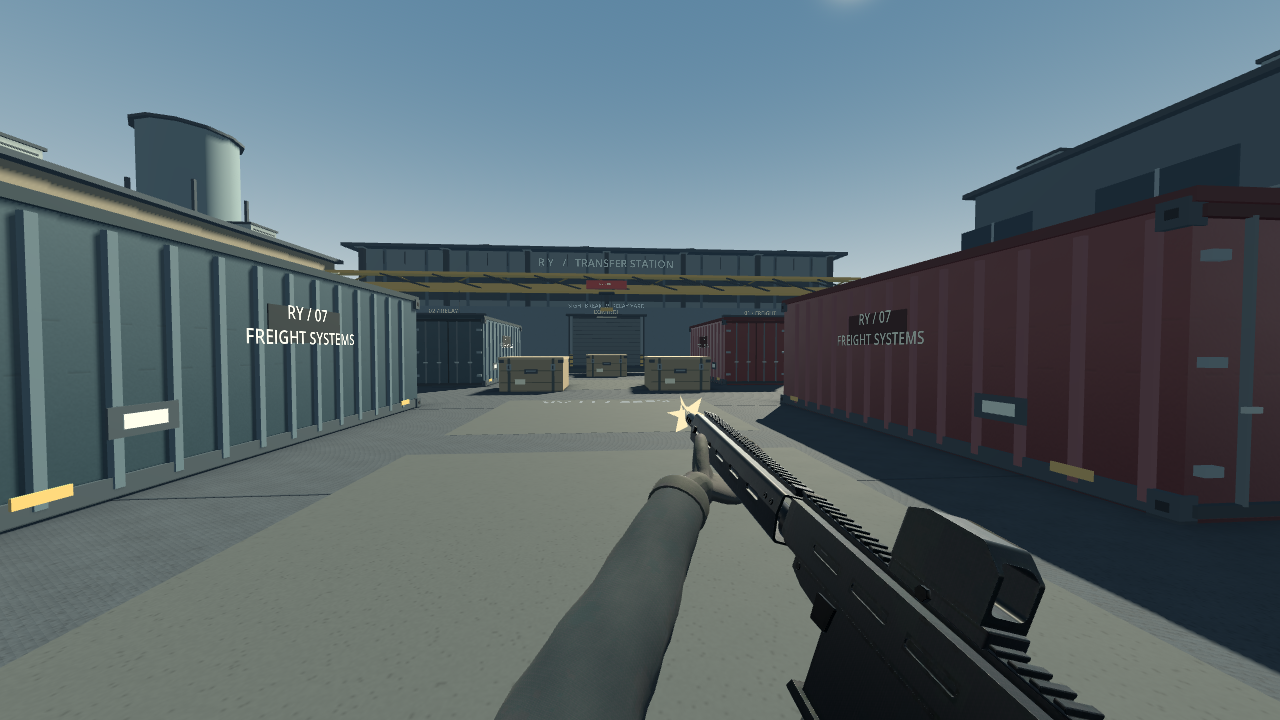
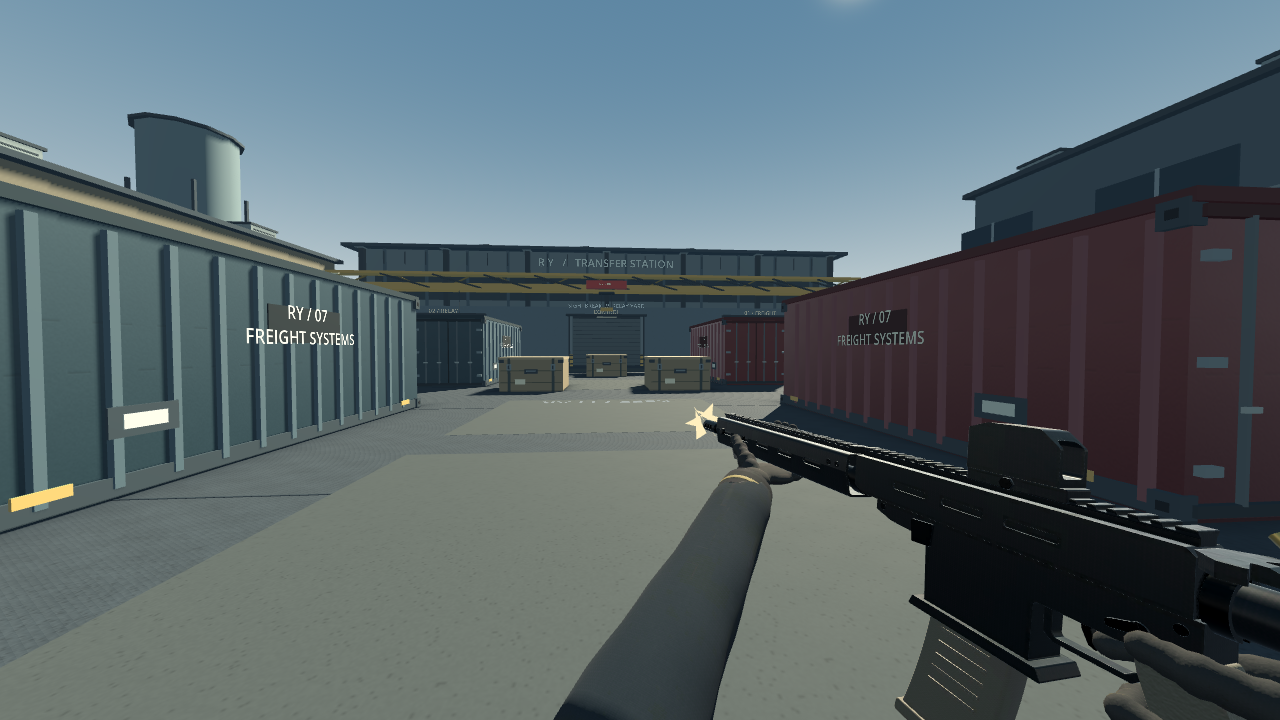
Record the hands v2 evidence, numbers and placement derivation
Refreshes the art docs for the rebuilt hands (9,684 triangles) and the
fitted viewmodel placement, and re-measures the viewmodel cost on
ecd290b: +48 ms per frame over the procedural rifle in the fixed software
rendering view (it was +32 to +40 ms), with 2 more draws and about 37k
more primitives. Those timings are relative cost on a CPU rasteriser, not
device evidence.

The art-v1 evidence now holds the final captures at 16:9, 20:9 and 4:3,
the hands renders from the second pass, the new benchmark log and the
validate.sh log for this head (1,958 native assertions, exit 0).

Claude-Session: https://claude.ai/code/session_01SpaewVrDfSTExz4E88EYmG

Changed region(s): [[0.375, 0.55, 1.0, 1.0]]

diff --git a/docs/art/PERFORMANCE_REPORT.md b/docs/art/PERFORMANCE_REPORT.md
@@ -6,23 +6,24 @@
 
 The test uses one fixed yard view at 1280×720 and alternates three variants over 3 rounds. Each round runs 8 warm-up frames and 40 measured frames, and the median frame time per round is recorded. Raw output is in `docs/reports/media/art-v1/logs/weapon_render_benchmark-<head>.log`.
 
-| Variant | Draw calls | Primitives | Median, `498311e` | Median, `b376e61` (final) |
-| --- | ---: | ---: | ---: | ---: |
-| No weapon | 23 | 37,452 | 120.8 ms | 118.4 ms |
-| Procedural rifle with box hands (0.4) | 28 | 40,476 | 128.3 ms | 129.4 ms |
-| Relay AR with baked hands | 30 | 76,326 | 160.0 ms | 169.5 ms |
+| Variant | Draw calls | Primitives | `498311e` | `b376e61` | `ecd290b` (hands v2) |
+| --- | ---: | ---: | ---: | ---: | ---: |
+| No weapon | 23 | 37,452 | 120.8 ms | 118.4 ms | 112.9 ms |
+| Procedural rifle with box hands (0.4) | 28 | 40,476 | 128.3 ms | 129.4 ms | 126.3 ms |
+| Relay AR with baked hands | 30 | 76,326 (77,698 at `ecd290b`) | 160.0 ms | 169.5 ms | 174.2 ms |
+
+Each cell is the median of 3 round medians. Round-to-round spread is a few milliseconds, and the "no weapon" row also moves between runs, so compare within a column.
 
 What this shows:
-- The authored viewmodel adds **2 draw calls** and about **36k primitives** compared with the procedural one. That matches the budgets: 30.3k triangles for the rifle and 8.3k for the hands.
-- On llvmpipe it costs **+32 ms** per frame over the procedural rifle at `498311e`, and **+40 ms** at the final head.
-  - The final head's default finish also samples the baked albedo, which is probably most of that difference on a CPU rasteriser.
-  - Round-to-round spread is several milliseconds.
+- The authored viewmodel adds **2 draw calls** and about **37k primitives** compared with the procedural one. That matches the budgets: 30.3k triangles for the rifle and 9.7k for the hands, which grew with the second hands pass.
+- On llvmpipe it costs **+32 ms** per frame over the procedural rifle at `498311e`, **+40 ms** at `b376e61` and **+48 ms** at `ecd290b`.
+  - The default finish then sampled the baked albedo, and the hands grew by about 1.4k triangles.
   - The view is simple, so the viewmodel's share is large.
 - **Texture memory:** six 1024² maps, VRAM compressed with mipmaps, take 5.59 MB in S3TC/BPTC and the same in ETC2. This is measured from the imported `.ctex` files.
 
 ## Risk and mitigation
 
-Thirty-nine thousand first-person triangles is within what current mid-range mobile GPUs draw comfortably, but that is **an expectation, not a measurement**. Until a device run exists:
+About forty thousand first-person triangles is within what current mid-range mobile GPUs draw comfortably, but that is **an expectation, not a measurement**. Until a device run exists:
 
 1. On the LOW tier, render the viewmodel from a reduced LOD. The importer already generates LODs, and `lod_bias` or an explicit decimated export can select one. Measure LOW and STANDARD separately.
 2. Keep viewmodel shadow casting off (already the case).
@@ -31,4 +32,4 @@ Thirty-nine thousand first-person triangles is within what current mid-range mob
 
 ## Regression status (art branch head)
 
-`scripts/validate.sh` passes on `b376e61`, with 1,958 native assertions. That includes `weapon_art_test.gd` (43), the bot match and two ENet clients. The log is in `docs/reports/media/art-v1/logs/validate-art-head.log`. No gameplay value, hit volume, network protocol or economy behaviour is changed by this slice.
+`scripts/validate.sh` passes on `ecd290b`, with 1,958 native assertions. That includes `weapon_art_test.gd` (43), the bot match and two ENet clients. The log is in `docs/reports/media/art-v1/logs/validate-art-head.log`. No gameplay value, hit volume, network protocol or economy behaviour is changed by this slice.

diff --git a/docs/reports/media/art-v1/README.md b/docs/reports/media/art-v1/README.md
@@ -5,10 +5,11 @@ Every image is a real render. The in-engine captures are Godot 4.7.2 on Xvfb wit
 | Folder | Contents |
 | --- | --- |
 | `captures/before-procedural/` | The 0.4 procedural rifle and box hands, the same seven fixtures |
-| `captures/after-authored/` | The Relay AR and baked hands at the final head (`b376e61`): backlit yard ready, firing, reload; sunlit yard; transfer-hall shade; sunlit with the Crimson Archive skin; inspection studio with the skin |
-| `reviewed-v4/` | The three authored frames as the visual reviewer saw them, before the follow-up fixes: casing origin, default baked finish, inspection centring (`docs/art/VISUAL_QA.md`) |
+| `captures/after-authored/` | The Relay AR and baked hands at the hands v2 head (`ecd290b`): backlit yard ready, firing, reload; sunlit yard; transfer-hall shade; sunlit with the Crimson Archive skin; inspection studio with the skin |
+| `captures/aspect-ratios/` | The ready frames at 20:9 (1600×720) and 4:3 (1024×768) |
+| `reviewed-v4/` | The three authored frames as the first visual reviewer saw them, before the follow-up fixes: casing origin, default baked finish, inspection centring, and the rebuilt hands and placement (`docs/art/VISUAL_QA.md`) |
 | `compare/` | Half-scale before/after sheets for all seven fixtures, plus a full-resolution sunlit detail crop |
-| `renders/` | Cycles, JPEG quality 92: the seven required views (left and right ¾, side profile, top perspective, receiver close-up, grip and magazine close-up, surface-materials close-up), `eye` (the in-game first-person camera in a grey studio), and both hands |
-| `logs/` | `weapon_render_benchmark-498311e.log` and `-b376e61.log` (software-render relative cost; see `docs/art/PERFORMANCE_REPORT.md`), `validate-art-head.log` (the full `validate.sh` on `b376e61`), and both capture runs |
+| `renders/` | Cycles, JPEG quality 92: the seven required views (left and right ¾, side profile, top perspective, receiver close-up, grip and magazine close-up, surface-materials close-up), `eye` (the in-game first-person camera in a grey studio), and both hands (`support_hand`, `firing_hand`, `left_34_with_hands`), all from the second hands pass |
+| `logs/` | `weapon_render_benchmark-498311e.log`, `-b376e61.log` and `-ecd290b.log` (software-render relative cost; see `docs/art/PERFORMANCE_REPORT.md`), `validate-art-head.log` (the full `validate.sh` on `ecd290b`), and both capture runs |
 
 The Cycles grip and magazine close-up was re-rendered once: the first camera direction sat below the studio floor and produced a black frame.

diff --git a/docs/art/WEAPON_PRODUCTION.md b/docs/art/WEAPON_PRODUCTION.md
@@ -33,7 +33,7 @@ The standard every first-person weapon follows, using the Relay AR as the worked
 | `body` | 16,214 | 1 | every non-paint part |
 | `magazine` + `magazine_rounds` | 1,392 + 236 | 2 | animated by reload |
 | **Rifle total** | **30,326** | **5** | budget 32,000 |
-| `hands` (separate GLB) | 8,312 | 1 | budget 10,000 |
+| `hands` (separate GLB) | 9,684 | 1 | budget 10,000 |
 
 The first-person node therefore holds six draw nodes: body, two paint parts, magazine, hands and muzzle flash. The magazine's cartridge is one more draw. The procedural rifle used five draws plus the magazine detail.
 
@@ -56,9 +56,16 @@ Recoil kick, sway, bob, equip and reload tilt still move the whole weapon node e
 ## Viewmodel placement
 
 `weapon_model.gd` places the rifle inside the camera-attached node, which rests 0.235 m right, 0.235 m down and 0.42 m ahead of the eye:
-- **Ejection port:** about 19 cm right, 17 cm down and 32 cm ahead of the eye.
-- **Cant:** YXZ Euler (0.06, 0.12, −0.30) rad, so the left receiver face and handguard read and the barrel converges below the crosshair.
-- **Stock:** ends behind the camera.
+- **Rotation:** YXZ Euler (−0.05, 0.27, −0.10) rad, so about 6° of roll and 15° of yaw. The barrel converges toward the crosshair and the left receiver face and handguard read.
+- **Offset:** (0.087, 0.082, 0.149) m in the weapon node's space.
+- **Result at 1280×720:**
+  - the muzzle sits near the crosshair;
+  - the support hand is at mid-handguard;
+  - the reflex sight is right of centre;
+  - the pistol-grip hand is at the lower right;
+  - the stock ends behind the camera.
+- **Derivation:** `tools/art/viewmodel_fit.py` projects rifle landmarks through the game camera (82° vertical field of view) and fits the pitch, yaw and offset to screen targets. Rerun it when the rifle's proportions change.
+- **Aspect ratios:** the layout holds at 16:9, 20:9 and 4:3 (captures in `docs/reports/media/art-v1/`).
 
 The placement is presentation only. Shots trace from the camera, as before.
 

diff --git a/docs/art/ASSET_PIPELINE.md b/docs/art/ASSET_PIPELINE.md
@@ -29,7 +29,8 @@ generator.py ──► render_views.py   (Cycles review renders; nothing written
 | --- | --- |
 | `hardsurface.py` | The modelling toolkit: filleted 2D profiles; two-view silhouette modelling (side profile ∩ plan profile); lathe; EXACT booleans that keep the target's material; bevel, harden-normals and weighted-normal finishing |
 | `relay_ar.py` | The Relay AR rifle generator. It declares the mesh `GROUPS` and hand `ANCHORS` that `export.py` reads |
-| `relay_ar_hands.py` | Gloved hands and sleeves posed on the rifle: capsule chains through explicit joints, fused by a voxel remesh, smoothed and decimated |
+| `relay_ar_hands.py` | Gloved hands and sleeves posed on the rifle: flattened ellipsoid phalanges through explicit joints (knuckles come from the overlaps), palm, heel and thenar masses, tapered oval sleeves with folds and a seam, flared cuffs and wrist straps. Hands are fused by a voxel remesh, smoothed and decimated |
+| `viewmodel_fit.py` | Fits the first-person placement constants in `weapon_model.gd`: it projects rifle landmarks through the game camera and searches for the pitch, yaw and offset that best match screen targets |
 | `render_views.py` | Cycles views that frame themselves from object bounds: left and right ¾, side profile, top, receiver, grip and magazine, materials, both hands. `eye` reproduces the in-game first-person camera (82° vertical field of view) from the placement in `weapon_model.gd` |
 | `bake.py` | Smart-UV atlas, then object-space procedural surfaces (tone, grain, directional scratches, edge chipping, grime, stipple). It bakes albedo, roughness, tangent normal (OpenGL +Y), 3.5 cm contact AO and metallic, and saves the unwrapped `.blend` |
 | `export.py` | Joins parts into one mesh per draw group, splits the magazine's cartridge into a child, adds marker and anchor empties, and exports the GLB. UVs and normals are left exactly as baked |

diff --git a/docs/art/VISUAL_GAP_ANALYSIS.md b/docs/art/VISUAL_GAP_ANALYSIS.md
@@ -24,7 +24,7 @@
 | Area | Before this branch | On this branch now | Gap that remains | Priority |
 | --- | --- | --- | --- | --- |
 | First-person rifle | Procedural chamfered boxes, about 1.1k triangles; 88 mm-wide receiver; no UVs or textures; one flat colour per part | **Relay AR**: an original Blender-built carbine at real scale, with about 30k triangles in 38 machined parts and 1024² baked albedo, ORM and normal maps | Detail still reads as clean CAD: no decals, markings or authored wear; normals come from procedural micro-relief only | Done (v1); polish next |
-| First-person hands | Chamfered boxes and 12-sided sleeves | Fused gloved hands posed on the grip and handguard, with folded sleeves and cuffs (8.3k triangles, baked fabric) | The support hand still reads thin from some angles; no finger articulation for reload; no glove detailing | High |
+| First-person hands | Chamfered boxes and 12-sided sleeves | Fused gloved hands (9.7k triangles, baked fabric): three flattened phalanges per finger, thenar masses, a C-clamp support hand, tapered oval sleeves with folds, flared cuffs and wrist straps | Static pose: no finger articulation for reload or inspect; no glove seams, pads or stitching beyond baked noise; the forearm is still a plain tube at gameplay distance | High |
 | Cosmetic finishes | Model-space procedural pattern replaces all material detail | The same finish now keeps baked occlusion and normals (`detail` uniform) | No edge-wear mask from the bake feeds the finish; no per-part finish channels | Medium |
 | Weapon animation | Transform kick, sway, bob and a magazine drop | Unchanged; the authored magazine animates through the same contract | No authored reload, inspect or bolt animation | High |
 | Other weapons (sidearm, SMG, marksman) | Procedural | Procedural (fallback path unchanged) | All three need the same pipeline | High |

diff --git a/docs/DEVELOPMENT_STATUS.md b/docs/DEVELOPMENT_STATUS.md
@@ -20,7 +20,7 @@ Ownership (from Codex's `docs/engineering/PARALLEL_WORK.md`):
 
 - **Asset pipeline:** `tools/art/` with headless Blender (bpy 5.2.2): generators, bake, export, texture packing and review renders. See `docs/art/ASSET_PIPELINE.md`.
 - **Relay AR rifle:** original, real scale, 30,326 triangles, 1024² baked PBR set.
-- **First-person hands:** gloved hands and sleeves, 8,312 triangles.
+- **First-person hands:** gloved hands and sleeves, 9,684 triangles; the viewmodel is fitted (about 6° of roll) with `tools/art/viewmodel_fit.py`.
 - **Integration:**
   - the authored rifle in first person and inspection, with the weapon contract unchanged (`docs/art/WEAPON_PRODUCTION.md`);
   - casings leave from the authored ejection port;

diff --git a/docs/art/ASSET_BUDGETS.md b/docs/art/ASSET_BUDGETS.md
@@ -18,7 +18,7 @@ The game exposes two quality settings (LOW and STANDARD) plus a render-scale sli
 | Item | Budget | Relay AR v1 |
 | --- | --- | --- |
 | Triangles, weapon | ≤ 32,000 | 30,326 |
-| Triangles, hands and sleeves | ≤ 10,000 | 8,312 |
+| Triangles, hands and sleeves | ≤ 10,000 | 9,684 |
 | Draw nodes in the viewmodel | ≤ 6 (asserted) | 6 |
 | Texture sets | 1 atlas per GLB | 2 (rifle, hands) |
 | Texture size shipped | ≤ 1024² per map | 1024² albedo, ORM and normal for each |
